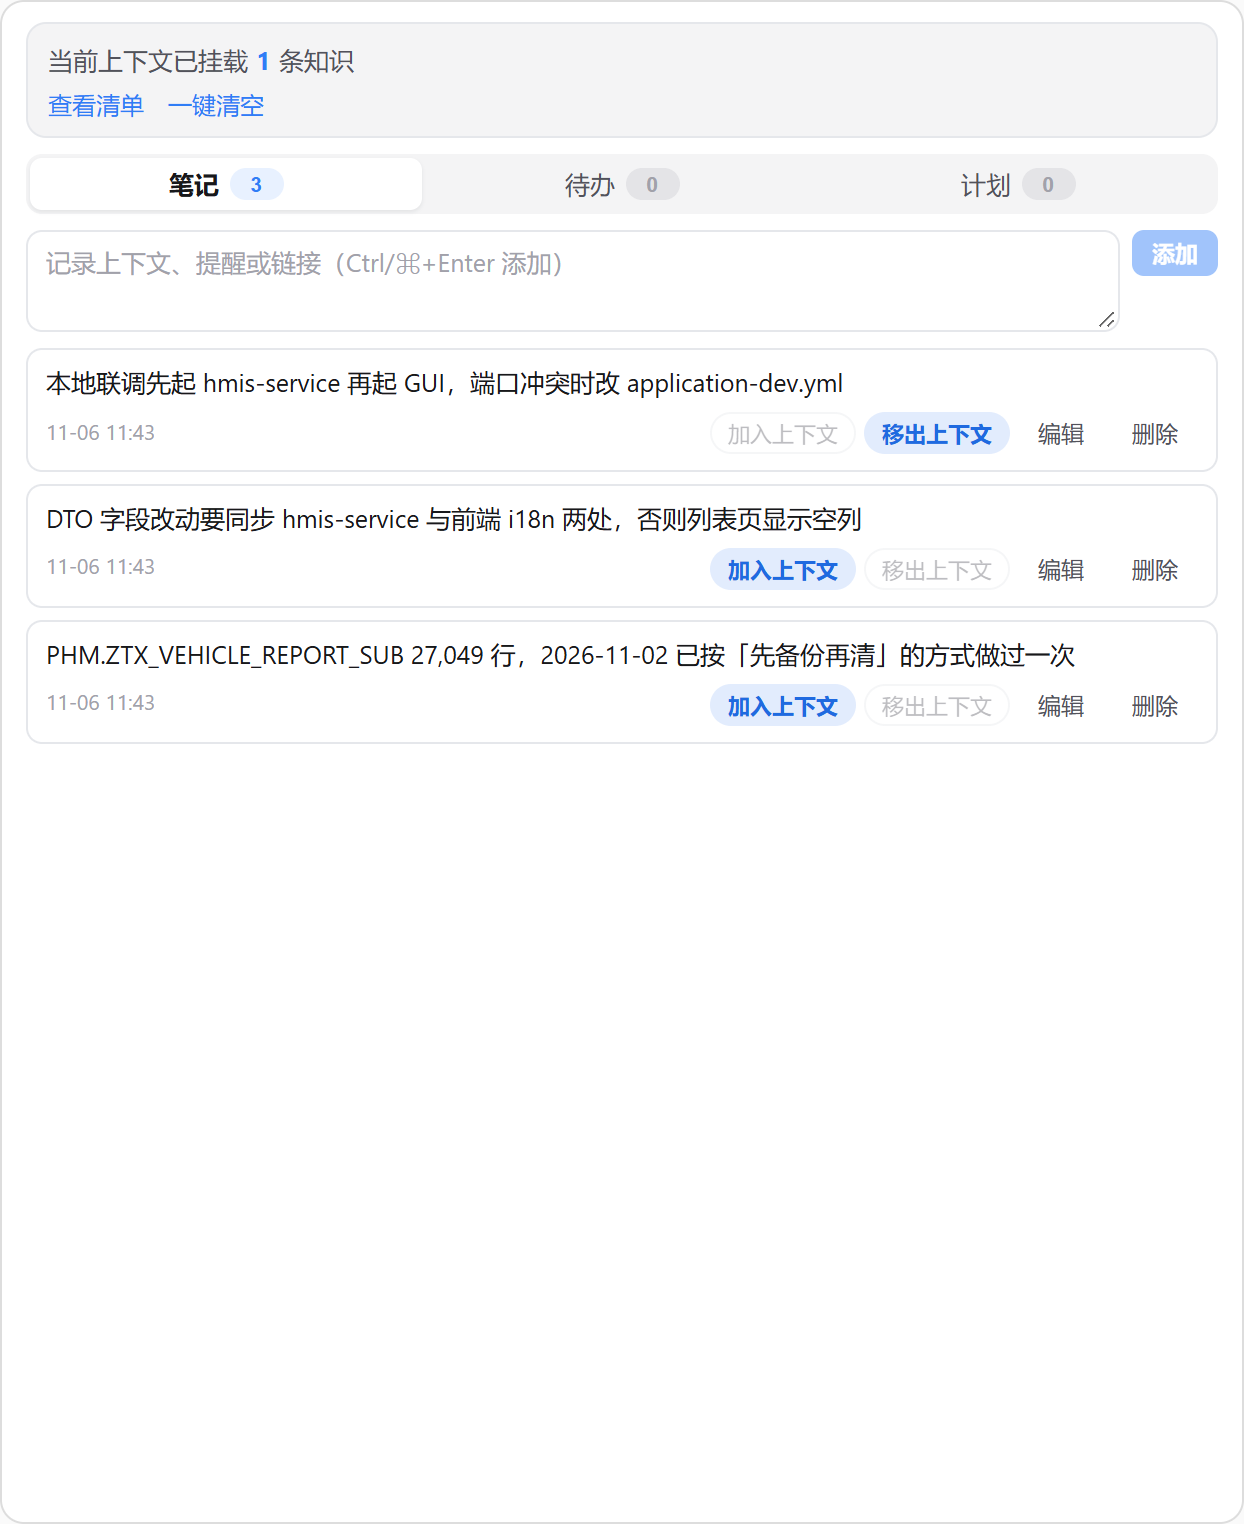
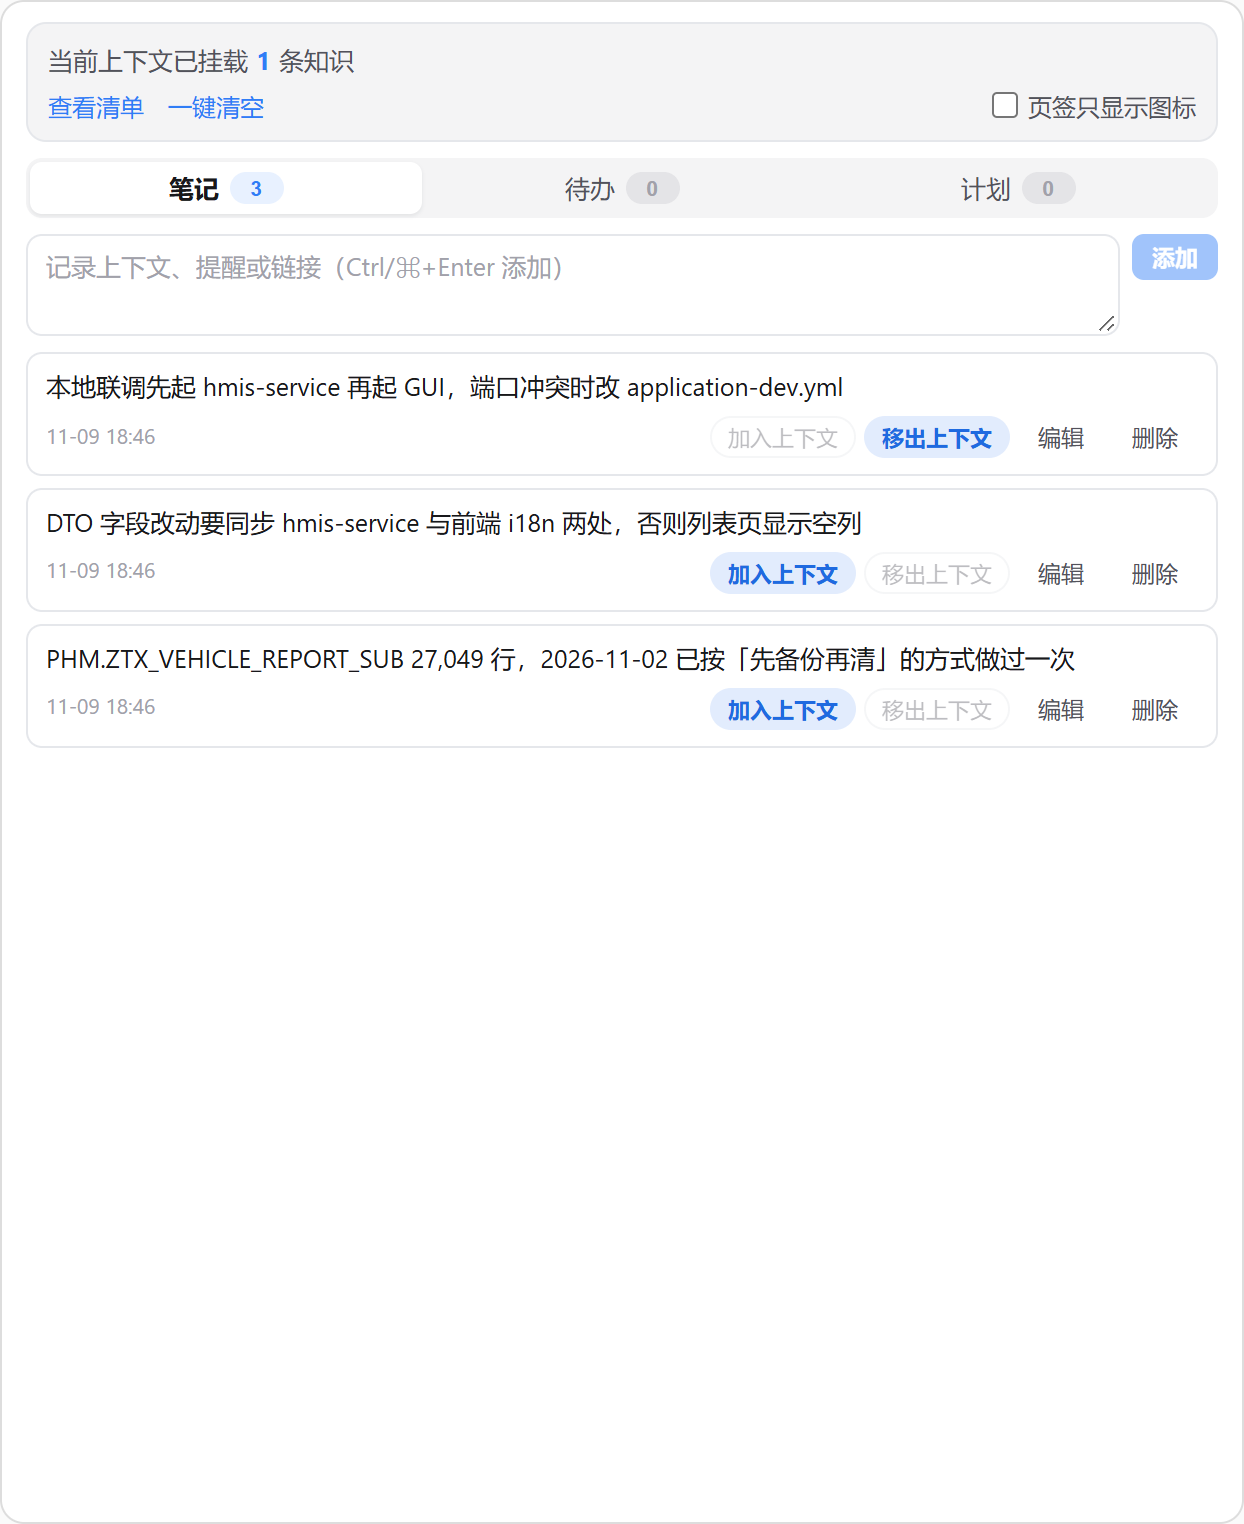
feat: 页签支持「图标 + 知识」与「仅图标」两种模式 (v0.1.2)
宿主只给插件页签一个图标组件的槽位（`className` / `aria-hidden`），不渲染
插件 label，所以「知识」两个字只能由插件自己画。这一版把它做成可配置：

- 默认「图标 + 知识」，与内置「文件」「变更」同一排，字号/行高/字重取宿主
  text-body-2-medium 的数值并跟随 --ui-font-scale / --ui-font-weight-offset
- 面板顶部新增「页签只显示图标」复选框，勾上后页签只剩图标；状态写进插件
  KV 的 ui.showLabel（false 才是仅图标），刷新/重启后保持
- 图标组件订阅 store，切换后页签当场重渲染，不用重开面板
- 老数据没有 ui 字段 → 一律按默认显示文字，不会因为升级突然变样

diff --git a/main.js b/main.js
@@ -67,12 +67,16 @@ export default function activate(ctx) {
   // ================= 数据模型 =================
 
   function blankData() {
-    return { version: 1, knowledge: {}, mounts: {} };
+    return { version: 1, knowledge: {}, mounts: {}, ui: { showLabel: true } };
   }
 
   function normalizeData(raw) {
     var data = blankData();
     if (!raw || typeof raw !== "object") return data;
+    // 只有显式关闭才是「仅图标」；老版本数据没有 ui 字段，默认显示文字。
+    if (raw.ui && typeof raw.ui === "object" && raw.ui.showLabel === false) {
+      data.ui.showLabel = false;
+    }
     var kn = raw.knowledge;
     if (kn && typeof kn === "object") {
       Object.keys(kn).forEach(function (ws) {
@@ -284,6 +288,24 @@ export default function activate(ctx) {
     var next = String(ws || "");
     if (state.activeWs === next) return;
     setState({ activeWs: next });
+  }
+
+  // ---- 显示偏好 ----
+
+  // 页签样式：默认 false（图标 + 「知识」文字，和内置「文件」「变更」同一排长相）；
+  // true 时只留图标，把页签条压到最窄。
+  function iconOnly() {
+    return !!(state.data && state.data.ui && state.data.ui.showLabel === false);
+  }
+
+  function setIconOnly(next) {
+    var want = !!next;
+    if (iconOnly() === want) return;
+    mutate(function (data) {
+      if (!data.ui || typeof data.ui !== "object") data.ui = { showLabel: true };
+      data.ui.showLabel = !want;
+      return true;
+    });
   }
 
   // ---- 挂载状态 ----
@@ -1183,7 +1205,17 @@ export default function activate(ctx) {
             className: "pk-link-btn" + (armedClear ? " is-danger" : ""),
             disabled: mounted.length === 0,
             onClick: askClear,
-          }, armedClear ? "确认清空" : "一键清空"))),
+          }, armedClear ? "确认清空" : "一键清空"),
+          h("label", {
+            className: "pk-toggle",
+            title: "默认显示「图标 + 知识」；勾上后右侧页签只留图标，把页签条压到最窄",
+          },
+            h("input", {
+              type: "checkbox",
+              checked: iconOnly(),
+              onChange: function (e) { setIconOnly(e.target.checked); },
+            }),
+            h("span", null, "页签只显示图标")))),
 
       h("div", { className: "pk-tabs", role: "tablist" },
         tabDefs.map(function (t) {
@@ -1335,24 +1367,31 @@ export default function activate(ctx) {
     },
   });
 
-  // 页签条里的插件 tab 只渲染图标（label 只作 title / 无障碍名）。宿主的
-  // 「文件」「变更」两枚图标都是 lucide 描边图标，这里给同一套规格的
-  // 笔记图标（24×24 viewBox、stroke-width 2、圆头圆角、currentColor），
-  // 16px 下三枚图标的线条粗细与留白一致，不会显得像另一套 UI。
+  // 页签条里的插件 tab 只渲染图标，`label` 只作 title / 无障碍名。为了让插件
+  // 页签和宿主内置的「文件」「变更」长成一套东西，这里用同一套 lucide 规格画
+  // 图标（24×24 viewBox、stroke-width 2、圆头圆角、currentColor），并可选择
+  // 在图标右侧带一个「知识」文字——宿主只往这里塞 className / aria-hidden，
+  // 所以文字只能由插件自己画。默认显示文字，与内置页签一致；关掉后只剩图标。
+  var TAB_TEXT = "知识";
+
   function PanelTabIcon(props) {
     var p = props || {};
-    return h("svg", {
+    // 订阅 store：用户在面板里切换「仅图标」时页签要立刻跟着变。
+    React.useSyncExternalStore(subscribe, getSnapshot);
+    var showLabel = !iconOnly();
+    var glyph = h("svg", {
       xmlns: "http://www.w3.org/2000/svg",
       viewBox: "0 0 24 24",
-      width: 24,
-      height: 24,
+      width: 16,
+      height: 16,
       fill: "none",
       stroke: "currentColor",
       strokeWidth: 2,
       strokeLinecap: "round",
       strokeLinejoin: "round",
-      className: p.className,
-      "aria-hidden": p["aria-hidden"] != null ? p["aria-hidden"] : "true",
+      "aria-hidden": "true",
+      style: showLabel ? { display: "block", flex: "none" } : undefined,
+      className: showLabel ? undefined : p.className,
     },
       h("path", { key: "m1", d: "M8 2v4" }),
       h("path", { key: "m2", d: "M12 2v4" }),
@@ -1361,6 +1400,36 @@ export default function activate(ctx) {
       h("path", { key: "l1", d: "M8 10h6" }),
       h("path", { key: "l2", d: "M8 14h8" }),
       h("path", { key: "l3", d: "M8 18h5" })
+    );
+
+    if (!showLabel) return glyph;
+
+    // 宿主给的是 size-4（16×16），带文字时要撑开：行内样式覆盖 width。
+    // 高度交给文字行高（1.125rem × 字号倍率）撑，与内置页签的行盒一致。
+    return h("span", {
+      className: p.className,
+      "aria-hidden": p["aria-hidden"] != null ? p["aria-hidden"] : "true",
+      style: {
+        display: "inline-flex",
+        alignItems: "center",
+        gap: "4px",
+        width: "auto",
+        height: "auto",
+        lineHeight: 1,
+      },
+    },
+      glyph,
+      h("span", {
+        key: "label",
+        style: {
+          // 与宿主页签文字同档：text-body-2-medium（13px / 18px / 500），
+          // 并跟随设置里的界面字号与字重偏移。
+          fontSize: "calc(0.8125rem * var(--ui-font-scale, 1))",
+          lineHeight: "calc(1.125rem * var(--ui-font-scale, 1))",
+          fontWeight: "min(900, calc(500 + var(--ui-font-weight-offset, 0)))",
+          whiteSpace: "nowrap",
+        },
+      }, TAB_TEXT)
     );
   }
 

diff --git a/styles.css b/styles.css
@@ -45,8 +45,29 @@
 }
 .pk-header-actions {
   display: flex;
+  align-items: center;
   gap: 12px;
+  flex-wrap: wrap;
 }
+/* 「页签只显示图标」开关：和左侧三个链接同排，右侧自带一点留白。 */
+.pk-toggle {
+  display: inline-flex;
+  align-items: center;
+  gap: 5px;
+  margin-left: auto;
+  font-size: 12px;
+  color: var(--color-text-secondary, #52525b);
+  cursor: pointer;
+  user-select: none;
+}
+.pk-toggle input {
+  width: 13px;
+  height: 13px;
+  margin: 0;
+  accent-color: var(--color-accent-500, #2f7df6);
+  cursor: pointer;
+}
+.pk-toggle:hover { color: var(--color-text-primary, #18181b); }
 .pk-link-btn {
   border: none;
   background: none;

diff --git a/README.md b/README.md
@@ -9,13 +9,27 @@
 
 | 位置 | 内容 |
 |---|---|
-| 顶部状态栏 | 「当前上下文已挂载 N 条知识」+「查看清单」+「一键清空」（二次确认） |
+| 顶部状态栏 | 「当前上下文已挂载 N 条知识」+「查看清单」+「一键清空」（二次确认）+「页签只显示图标」开关 |
+| 右侧页签 | 与内置「文件」「变更」同一排：图标 + **知识**（默认）；勾上开关后只留图标 |
 | 笔记 Tab | 新增 / 编辑 / 删除；每条一对【加入上下文】【移出上下文】 |
 | 待办 Tab | 复选框切换完成态；新增 / 编辑 / 删除；每条一对【加入上下文】【移出上下文】 |
 | 计划 Tab | Markdown 编辑器 + 编辑/预览切换；【发送到会话】【加入上下文】【移出上下文】 |
 | 输入框状态条 | 「项目知识 N」胶囊，点开即看挂载清单，可单条移出或一键清空 |
 
 「加入上下文」与「移出上下文」成对出现：当前状态那一个高亮，另一个置灰，不会误判。
+
+### 页签的两种长相
+
+插件页签本身只接受一个图标组件（宿主只往里面塞 `className` / `aria-hidden`），
+所以「知识」这两个字是插件自己画的，好处是能跟你一起做选择：
+
+| 模式 | 长这样 | 什么时候用 |
+|---|---|---|
+| 图标 + 文字（默认） | `▤ 知识` | 和内置「文件」「变更」并排，一眼看得懂这是干嘛的 |
+| 仅图标 | `▤` | 右侧页签条太挤，或你已经认得这枚图标；悬停仍有「项目知识」提示 |
+
+开关在面板顶部的「页签只显示图标」复选框，选中即生效（页签条不用刷新），
+写进插件自己的 KV，下次打开 GUI 还是这个状态。关掉文字不影响面板里的任何功能。
 
 ![待办](docs/screenshot-2-todos.png)
 
@@ -48,9 +62,13 @@
   （`placement: request-tail`、`visibility: internal`、`persistence: turn`），宿主把它附在本轮 prompt 之后。
   这是宿主唯一能让「挂载态」随每一轮重建的通道——移出即不带，不需要重启会话。
 - 宿主对所有插件的提示贡献合计只有 12KB 预算，本插件自留 8KB，超出部分省略并在上下文里注明。
-- 页签条里的插件 tab 只渲染图标（`label` 只作 hover 提示与无障碍名）。`registerPanelTab` 显式注册了
+- 页签条里的插件 tab 只渲染图标组件（`label` 只作 hover 提示与无障碍名）。`registerPanelTab` 显式注册了
   与宿主「文件」「变更」同规格的 lucide 描边图标（24×24 viewBox、`stroke-width: 2`、
   `currentColor`、圆头圆角），选中 / 未选中都跟随宿主的主题色，不会回落成彩色首字母瓷砖。
+- 「知识」两个字由图标组件自己画（宿主只往组件里塞 `className` / `aria-hidden`，不渲染插件文字），
+  字体取宿主同一档 `text-body-2-medium` 的数值并跟随 `--ui-font-scale` / `--ui-font-weight-offset`，
+  所以和内置页签的字号、行高、字重完全对齐。开关状态存在同一个 KV 的 `ui.showLabel`
+  （`false` 才是仅图标，缺省/老数据一律显示文字），组件订阅 store，勾选后页签当场重渲染。
 - 存储走 `ctx.storage` 单键 `knowledge:v1`（宿主 `plugin_kv`），按工作区分片存笔记 / 待办 / 计划，
   `mounts` 单独存挂载。不读写 `localStorage`，不碰宿主内部对象。
 - 计划【发送到会话】用 `ctx.sessions.startRun`：宿主没有「往当前会话追加一条消息」的插件 API。
@@ -106,7 +124,7 @@ node --test test/core.test.mjs
 `styles.css` / `checksums.txt` 附到该 tag 的 Release。
 
 ```bash
-git tag 0.1.1 && git push origin 0.1.1
+git tag 0.1.2 && git push origin 0.1.2
 ```
 
 ## 许可
